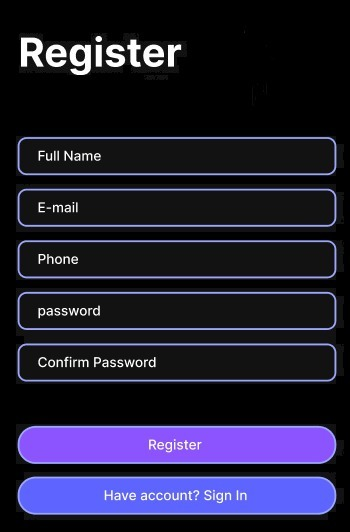
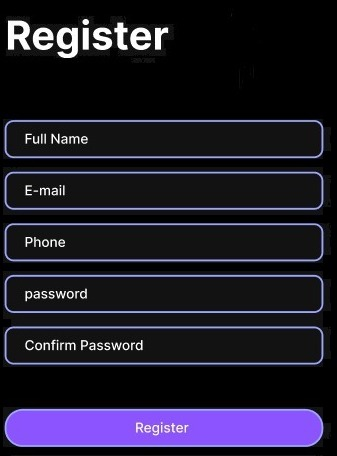
Clase 3

diff --git a/MODULO_1/HTML_CSS_C3/work_class/index.html b/MODULO_1/HTML_CSS_C3/work_class/index.html
@@ -1,0 +1,41 @@
+<!DOCTYPE html>
+<html>
+    <head>  
+        <title>CSS</title>
+        <link 
+            href="./styles.css" 
+            rel="stylesheet" 
+        />
+    </head>
+
+    <body>
+        <h1> Clase de CSS </h1>
+        <h1> Texto en color rojo</h1>
+        <h2> Etiqueta h2 </h2>
+
+        <p> 
+            Este es un parrafo azul
+            <span>
+                Texto verde
+                con un ancho de 900
+            </span>
+            con Arial 36
+        </p>
+
+        <button> 
+            Este es un boton
+            con borde rojo 10px
+            redondeado
+        </button>
+
+        <p>
+            <input 
+                type="text"
+                placeholder="Nombre"
+            />
+        </p>
+        
+      
+
+    </body>
+</html>

diff --git a/MODULO_1/HTML_CSS_C3/work_class/styles.css b/MODULO_1/HTML_CSS_C3/work_class/styles.css
@@ -1,0 +1,45 @@
+body  {
+    background-color: lightgreen;
+}
+h1 {
+    color:red;
+    text-decoration: underline;
+}
+
+h2 {
+    /* color de fondo */
+    background-color: yellow;
+    /* color de fuente */
+    color: green;
+}
+
+p {
+    color: blue;
+    /* tamaño de fuente */
+    font-size: 36px;
+    /* tipo de fuente */
+    font-family: Arial;
+}
+
+span {
+    color:   #215511;
+    /* Ancho de la fuente (nivel de negrita) */
+    font-weight: 900;
+}
+
+button {
+    /* Color de borde */
+    border-color: red;
+    /* ancho del borde */
+    border-width: 2px;
+
+    /* border redondeado */
+    border-radius: 20px;
+}
+
+input {
+    border-color: blue;
+    border-width: 3px;
+    /* Ancho del input */
+    width: 350px;
+}

diff --git a/MODULO_1/HTML_CSS_C3/work_class/bad_css_practice.html b/MODULO_1/HTML_CSS_C3/work_class/bad_css_practice.html
@@ -1,0 +1,22 @@
+<!DOCTYPE html>
+<html>
+    <head>
+        <title> CSS </title>
+        <!-- Utilizando la etiqueta Style -->
+        <!-- Mala práctica -->
+        <style>
+            /* aca va codigo de CSS */
+            h2 {
+                color: red;
+            }
+        </style>
+    </head>
+
+    <body>
+        <!-- Aplicar estilos en linea -->
+        <!-- NO SE DEBE HACER - Mala práctica -->
+        <h1 style="color:blue"> Clase de CSS </h1>
+        <h2> Texto rojo </h2>
+
+    </body>
+</html>

diff --git a/MODULO_1/HTML_CSS_C3/homework/README.md b/MODULO_1/HTML_CSS_C3/homework/README.md
@@ -8,13 +8,12 @@ En la generación de estilos hay infinitas maneras de llegar a un mismo resultad
 
 1. Crea un formulario de registro de usuarios que se vea como el de la siguiente imágen. Los criterios de diseño son:
    - Toda la pagina debe usar un tipo de fuente `font-family: sans-serif`
-   - El titulo "Register" tiene un color de fuente `#252EFF`, un tamaño de fuente 24px, y un font-weight: 700
+   - El titulo "Register" tiene un color de fuente `#252EFF`, un tamaño de fuente 24px, y un `font-weight: 700;`
    - Todos los input tiene un borde sólido de 2px y de color `#6066FF`
-   - Todos los input tiene un borde redondeado `border-radius` de 10px.
-   - El botón "Register" tiene un color de fuente blanco de 15px y un color de fondo  `#252EFF`
-   - El botón "Have account? Sign In" tiene un color de fuente blanco de 15px y un color de fondo `#5E64FF`
-   - Los botones tiene un border-radius de 20px.
-   - Los botones e inputs deben tener un ancho  `width` de 350px.
+   - Para que los input se vean con un borde redondeado usa la propiedad border radius `border-radius` de `border-radius:10px`
+   - El botón "Register" tiene un color de fuente blanco de 15px y un color de fondo de color `#252EFF`
+   - Para el botón se vean con un borde redondeado usa la propiedad border radius, `border-radius: 20px`
+   - El botón e inputs deben tener un ancho  `width` de 350px `width: 350px`.
 
    - ![tarea1](./../resources/homework_light.jpeg)
 2. Ahora intenta hacer la version dark de tu formulario de resgistro. 
@@ -24,5 +23,4 @@ En la generación de estilos hay infinitas maneras de llegar a un mismo resultad
    - Los inputs deben tener un `border-color: #9CA6FF`
    - Los botones deben tener un borde solid  de 2px y de color `#9CA6FF`
    - El botón "Register" debe tener un color de fondo  `#8B54FF`
-   - El botón "Have account? Sign In" debe tener un color de fondo  `#5E64FF`
    - ![tarea2](./../resources/homework_dark.jpeg)
